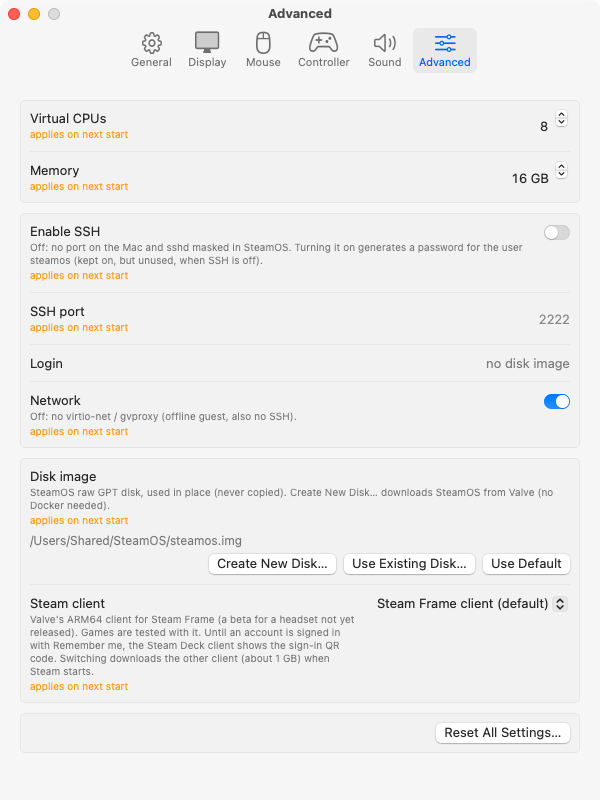
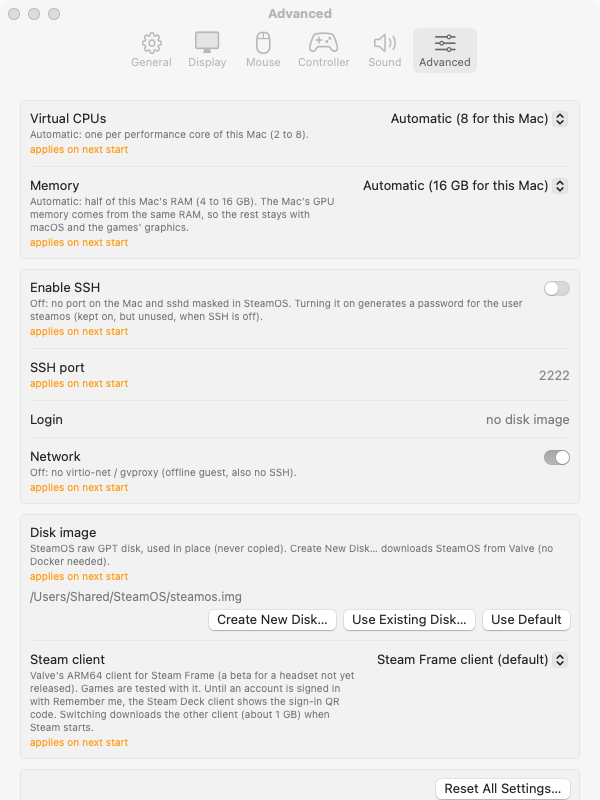
Pages: 1.4 — update check, automatic VM size, shader pre-caching default, new General/Advanced screenshots

diff --git a/docs/index.html b/docs/index.html
@@ -351,8 +351,8 @@
       <ol class="settings-tabs" role="tablist" aria-label="Settings tabs">
         <li><button type="button" role="tab" data-tab="general" aria-selected="true">
           <b>General</b>
-          <span lang="en">Close the window to shut down or suspend SteamOS in memory (Ctrl+Cmd+S); boot overlay and a “still working” card when the GPU idles for 2 s; in the background, fade the sound out (default) or pause the game; crash reports with an opt-out; Report a Problem with the logs you choose.</span>
-          <span lang="ru">Закрытие окна выключает SteamOS или приостанавливает её в памяти (Ctrl+Cmd+S); оверлей загрузки и карточка «still working», если GPU простаивает 2 с; в фоне — плавно выключить звук (по умолчанию) или поставить игру на паузу; отчёты о сбоях с возможностью отключить; Report a Problem с выбранными логами.</span>
+          <span lang="en">Close the window to shut down or suspend SteamOS in memory (Ctrl+Cmd+S); boot overlay and a “still working” card when the GPU idles for 2 s; in the background, fade the sound out (default) or pause the game; crash reports with an opt-out; update check at startup; Report a Problem with the logs you choose.</span>
+          <span lang="ru">Закрытие окна выключает SteamOS или приостанавливает её в памяти (Ctrl+Cmd+S); оверлей загрузки и карточка «still working», если GPU простаивает 2 с; в фоне — плавно выключить звук (по умолчанию) или поставить игру на паузу; отчёты о сбоях с возможностью отключить; проверка обновлений при запуске; Report a Problem с выбранными логами.</span>
         </button></li>
         <li><button type="button" role="tab" data-tab="display" aria-selected="false">
           <b>Display</b>
@@ -376,8 +376,8 @@
         </button></li>
         <li><button type="button" role="tab" data-tab="advanced" aria-selected="false">
           <b>Advanced</b>
-          <span lang="en">vCPUs and memory; SSH into SteamOS with one switch (off by default, a generated password per disk); network; the Steam client (Steam Frame, Steam Deck or Steam Deck beta); the SteamOS disk — create a new one from Valve's servers or pick an existing image, never copied.</span>
-          <span lang="ru">vCPU и память; SSH в SteamOS одним переключателем (по умолчанию выключен, пароль генерируется для каждого диска); сеть; клиент Steam (Steam Frame, Steam Deck или Steam Deck beta); диск SteamOS — создать новый с серверов Valve или выбрать готовый образ, который никогда не копируется.</span>
+          <span lang="en">vCPUs and memory sized for your Mac automatically, or custom with a warning when you over-commit; SSH into SteamOS with one switch (off by default, a generated password per disk); network; the Steam client (Steam Frame, Steam Deck or Steam Deck beta); the SteamOS disk — create a new one from Valve's servers or pick an existing image, never copied.</span>
+          <span lang="ru">vCPU и память подбираются под ваш Mac автоматически или задаются вручную — с предупреждением, если это слишком много; SSH в SteamOS одним переключателем (по умолчанию выключен, пароль генерируется для каждого диска); сеть; клиент Steam (Steam Frame, Steam Deck или Steam Deck beta); диск SteamOS — создать новый с серверов Valve или выбрать готовый образ, который никогда не копируется.</span>
         </button></li>
       </ol>
 
@@ -426,14 +426,12 @@
       </div>
 
       <div class="get-card">
-        <h3><span lang="en">New in 1.3 and 1.3.1</span><span lang="ru">Новое в 1.3 и 1.3.1</span></h3>
+        <h3><span lang="en">New in 1.4</span><span lang="ru">Новое в 1.4</span></h3>
         <ul class="news">
-          <li><span lang="en">1.3.1: boot progress and the moment Steam is ready are recognized in any Steam language, with a byte-count fallback for Steam's own download</span><span lang="ru">1.3.1: прогресс загрузки и момент готовности Steam распознаются на любом языке Steam, а загрузка самого Steam показывается по объёму скачанного</span></li>
-          <li><span lang="en">Pick the Steam client: Steam Frame (default — the ARM64 client games are tested with), Steam Deck or Steam Deck beta; at first run, in Create New Disk or in Settings → Advanced</span><span lang="ru">Выбор клиента Steam: Steam Frame (по умолчанию — ARM64-клиент, на котором проверяются игры), Steam Deck или Steam Deck beta; при первом запуске, в Create New Disk или в Settings → Advanced</span></li>
-          <li><span lang="en">Boot progress stays until Steam is ready: a click shrinks it into a progress pill, the window title shows the stage, and it covers first-start setup and Steam's own download</span><span lang="ru">Прогресс загрузки не пропадает, пока Steam не готов: щелчок сворачивает его в плашку, заголовок окна показывает этап, и он остаётся на время первой настройки и загрузки самого Steam</span></li>
-          <li><span lang="en">Steam starts through steamac's own launcher script; Valve's RUNSTEAM.sh is no longer modified or shipped</span><span lang="ru">Steam запускается собственным скриптом steamac; RUNSTEAM.sh от Valve больше не изменяется и не поставляется</span></li>
-          <li><span lang="en">Creating a disk asks you to accept Valve's SteamOS license and the Steam Subscriber Agreement</span><span lang="ru">Перед созданием диска нужно принять лицензию SteamOS и Steam Subscriber Agreement от Valve</span></li>
-          <li><span lang="en">Open source under Apache-2.0 (kernel patches GPL-2.0, Mesa and virglrenderer patches MIT); third-party notices inside the app, GPL sources attached to every release</span><span lang="ru">Открытый код под Apache-2.0 (патчи ядра — GPL-2.0, патчи Mesa и virglrenderer — MIT); лицензии сторонних компонентов внутри приложения, исходники GPL приложены к каждому релизу</span></li>
+          <li><span lang="en">Software Update: at startup the app asks GitHub for the newest release (at most every 6 hours, only the app version is sent) and shows its notes with Download / Skip / Later; Check for Updates… is in the app menu, and the check can be turned off in Settings → General</span><span lang="ru">Обновления: при запуске приложение спрашивает у GitHub последний релиз (не чаще раза в 6 часов, отправляется только версия приложения) и показывает его описание с кнопками Download / Skip / Later; Check for Updates… — в меню приложения, проверку можно выключить в Settings → General</span></li>
+          <li><span lang="en">The VM is sized for your Mac: one vCPU per performance core (2–8) and half of the RAM (4–16 GB); Custom in Settings → Advanced warns when you over-commit</span><span lang="ru">Размер ВМ подбирается под ваш Mac: vCPU по числу производительных ядер (2–8) и половина памяти (4–16 ГБ); в режиме Custom в Settings → Advanced есть предупреждение, если выделено слишком много</span></li>
+          <li><span lang="en">Steam's Shader Pre-Caching and background shader processing are off by default: replaying them costs minutes on Venus/MoltenVK and the shared caches barely match. Your own choice in Steam's settings wins</span><span lang="ru">Shader Pre-Caching и фоновая обработка шейдеров в Steam по умолчанию выключены: на Venus/MoltenVK их прогон занимает минуты, а общие кеши почти не подходят. Если включить их в настройках Steam, ваш выбор сохраняется</span></li>
+          <li><span lang="en">MoltenVK: vertex input Metal would reject now fails the pipeline cleanly instead of crashing the VM</span><span lang="ru">MoltenVK: вершинные данные, которые Metal отверг бы, теперь просто не создают конвейер, а не роняют ВМ</span></li>
         </ul>
         <h3><span lang="en">Or build everything from source</span><span lang="ru">Или соберите всё из исходников</span></h3>
 <pre><code><span class="c"># MoltenVK, virglrenderer, libkrun, launcher,</span>
